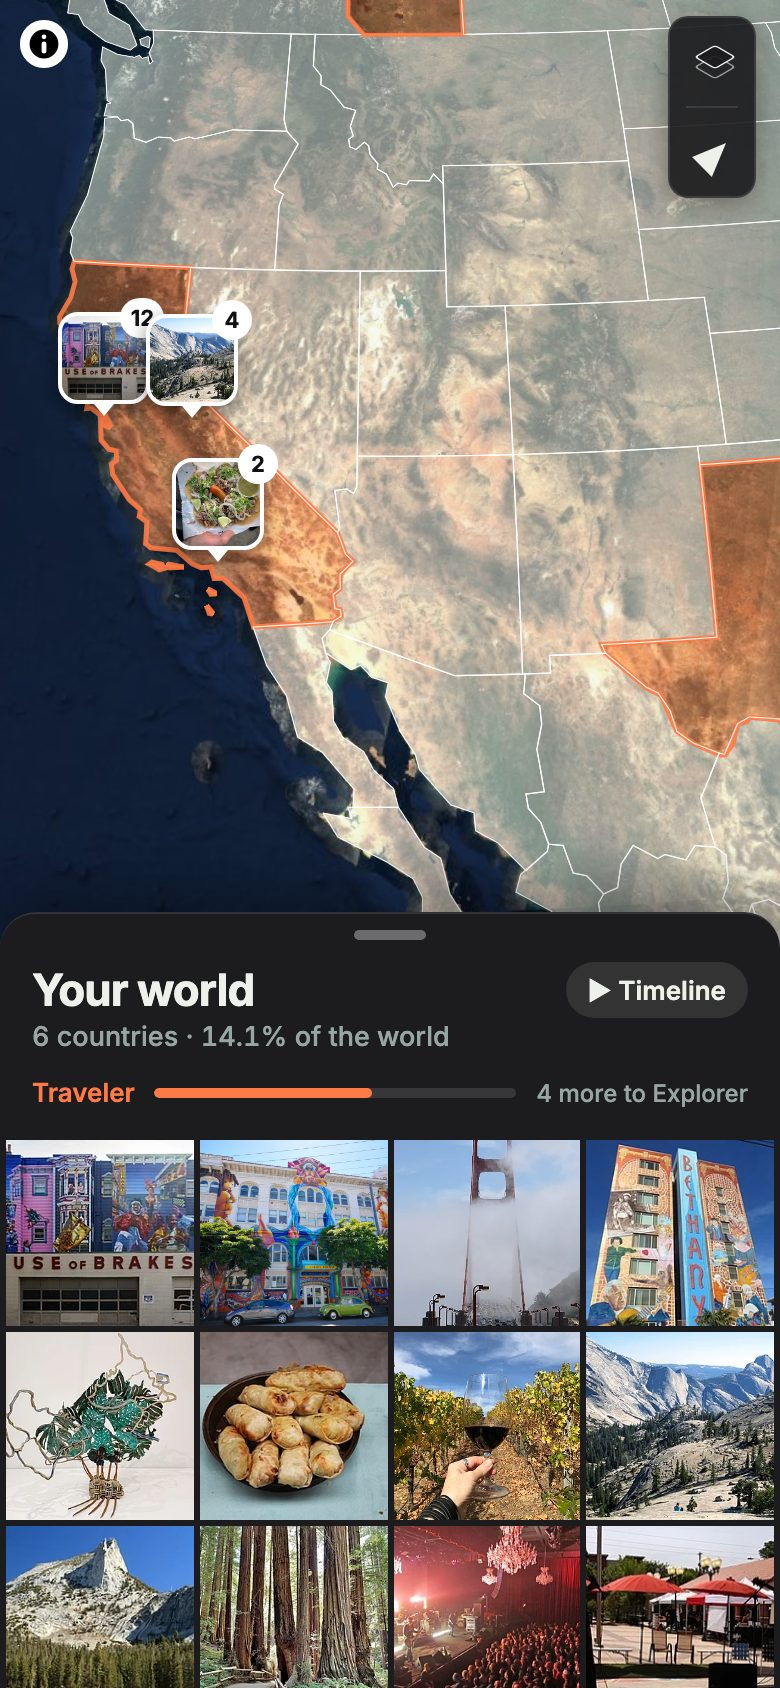
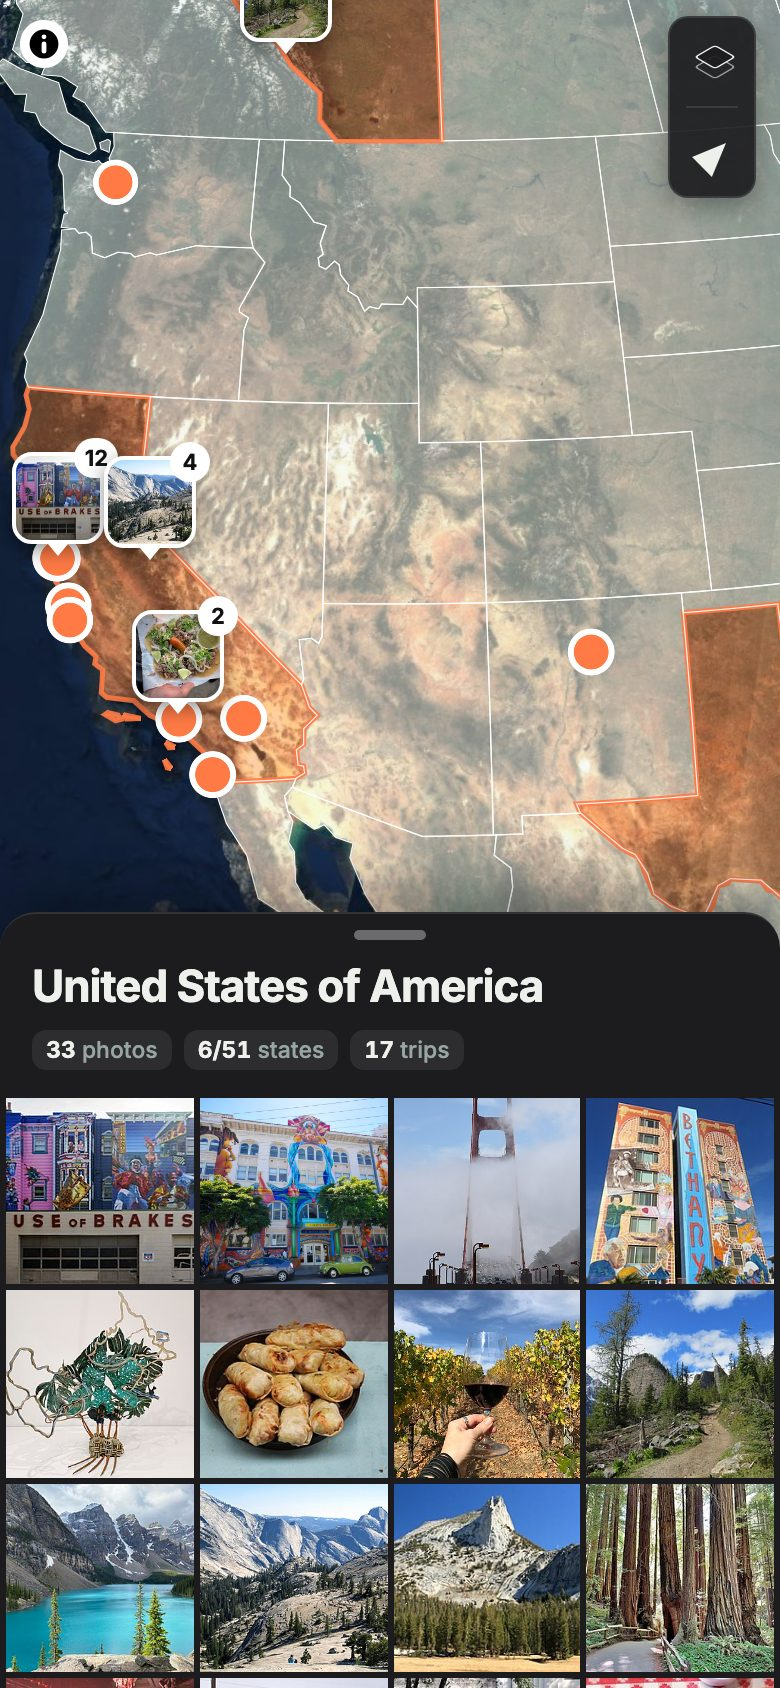
Read places again after the update; polish for the US release

diff --git a/mobile/e2e/web-demo.spec.ts b/mobile/e2e/web-demo.spec.ts
@@ -51,6 +51,25 @@ test('far out, the sheet shows your world', async ({ page }) => {
   expect(errors).toEqual([]);
 });
 
+test('a browser with 0.3.0 storage reads the places again', async ({ page }) => {
+  const errors = watchErrors(page);
+  // What 0.3.0 left behind: the Italian sample gallery under the v2 keys, and the choice to use it.
+  await page.addInitScript(() => {
+    if (localStorage.getItem('seeded')) return;
+    localStorage.setItem('seeded', '1');
+    const old = { id: 'old', uri: 'x', filename: 'old.jpg', takenAt: 1, lat: 41.9, lon: 12.5, level: 'province', country: 'ITA', region: '12', province: 'RM' };
+    localStorage.setItem('photos:v2', JSON.stringify([old]));
+    localStorage.setItem('visited:v2', JSON.stringify({ country: { ITA: ['photo'] }, region: {}, province: {} }));
+    localStorage.setItem('gallery:choice', 'sample');
+  });
+  await page.route('**/v1/chat/completions', (route) => route.abort());
+  await page.goto('./');
+  await expect(page.getByText('6 countries · 14.1% of the world')).toBeVisible({ timeout: 30_000 });
+  await expect(page.locator('[data-testid="photo-pin"]').first()).toBeVisible();
+  expect(await page.evaluate(() => [localStorage.getItem('photos:v2'), localStorage.getItem('visited:v2')])).toEqual([null, null]);
+  expect(errors).toEqual([]);
+});
+
 test('tapping a numbered pin shows its photos oldest first', async ({ page }) => {
   const errors = watchErrors(page);
   await startWithGallery(page);

diff --git a/mobile/scripts/test-locate.ts b/mobile/scripts/test-locate.ts
@@ -84,6 +84,11 @@ assert.deepEqual(levelWords('ITA'), { region: 'region', province: 'province' });
 assert.deepEqual(levelWords('FRA'), { region: 'region', province: 'province' });
 assert.ok(isDetailed('USA') && isDetailed('ITA') && !isDetailed('FRA'));
 assert.equal(nameOf('region', 'US-CA'), 'California');
+// The six independent cities share a name with their county: they keep the Census "city" name.
+assert.equal(nameOf('province', 'US-24510'), 'Baltimore city');
+assert.equal(nameOf('province', 'US-24005'), 'Baltimore');
+assert.equal(nameOf('province', 'US-29510'), 'St. Louis city');
+assert.equal(locate(29.9637, -90.0577).province, 'US-22071');
 assert.deepEqual(placeOfProvince('US-06075'), { country: 'USA', region: 'US-CA' });
 assert.ok(statSync('src/geo/us-states.json').size + statSync('src/geo/us-counties.json').size < 1.5 * 1024 * 1024);
 // Natural Earth's US states left world-regions.json: the Census states replace them.

diff --git a/mobile/src/state/visited.ts b/mobile/src/state/visited.ts
@@ -8,14 +8,15 @@ import { addMarks, removeSource, type Visited } from './marks';
 
 export { ids, type Visited } from './marks';
 
-// v2: regions of Spain, France, UK and Portugal changed ids (real regions, 18:20).
-const KEY = 'visited:v2';
+// v3: US states and counties from the Census; the San Francisco demo traveler.
+const KEY = 'visited:v3';
 const empty = (): Visited => ({ country: {}, region: {}, province: {} });
 
 export function useVisited() {
   const [visited, setVisited] = useState<Visited>(empty);
 
   useEffect(() => {
+    Storage.removeItem('visited:v2').catch(() => {}); // the 0.3.0 copy is never read again
     Storage.getItem(KEY)
       .then((saved) => saved && setVisited({ ...empty(), ...JSON.parse(saved) }))
       .catch((e) => console.warn('[visited] load failed', e));

diff --git a/mobile/src/gallery/photos.ts b/mobile/src/gallery/photos.ts
@@ -21,8 +21,8 @@ export type Photo = Place & {
   lon: number;
 };
 
-// v2: photos carry the real regions of Spain, France, UK and Portugal (18:20).
-const KEY = 'photos:v2';
+// v3: US states and counties from the Census; the San Francisco demo traveler.
+const KEY = 'photos:v3';
 
 // A gallery photo with its place, or null without a position.
 function toPhoto(raw: RawPhoto): Photo | null {
@@ -68,6 +68,7 @@ export async function loadSample(): Promise<Photo[]> {
 export const forgetPhotos = () => Storage.setItem(KEY, '[]');
 
 export async function loadPhotos(): Promise<Photo[]> {
+  Storage.removeItem('photos:v2').catch(() => {}); // the 0.3.0 copy is never read again
   const saved = await Storage.getItem(KEY);
   return saved ? JSON.parse(saved) : [];
 }

diff --git a/mobile/scripts/readme-media.ts b/mobile/scripts/readme-media.ts
@@ -57,7 +57,7 @@ async function main() {
     // 1. Far out: your world.
     await shot('1-world.jpg');
     // 2. The US by state, with the photos in view.
-    await page.evaluate(() => (window as unknown as { __mantideMap: MapHandle }).__mantideMap.jumpTo({ center: [-113, 29], zoom: 3.6 }));
+    await page.evaluate(() => (window as unknown as { __mantideMap: MapHandle }).__mantideMap.jumpTo({ center: [-112, 33], zoom: 3.6 }));
     await page.waitForTimeout(3000);
     await dragSheet(page, 844 - 388);
     await page.waitForTimeout(2000);

diff --git a/mobile/src/i18n/index.ts b/mobile/src/i18n/index.ts
@@ -52,7 +52,7 @@ export function setLocaleForTests(l: Locale, region?: string): void {
 
 // "10 mi" or "16 km", rounded.
 export function formatDistance(km: number): string {
-  return distanceUnit === 'mi' ? `${Math.round(km / KM_PER_MILE)} mi` : `${Math.round(km)} km`;
+  return distanceUnit === 'mi' ? `${formatCount(Math.round(km / KM_PER_MILE))} mi` : `${formatCount(Math.round(km))} km`;
 }
 
 export function t(key: StringKey, params?: Record<string, string | number>): string {

diff --git a/mobile/playwright.config.ts b/mobile/playwright.config.ts
@@ -7,7 +7,7 @@ const live = process.env.BASE_URL;
 export default defineConfig({
   testDir: 'e2e',
   timeout: 90_000,
-  use: { baseURL: live ?? 'http://127.0.0.1:4173/mantide/', browserName: 'chromium' },
+  use: { baseURL: live ?? 'http://127.0.0.1:4173/mantide/', browserName: 'chromium', locale: 'en-US' },
   webServer: live
     ? undefined
     : { command: 'npx tsx scripts/serve-web.ts', url: 'http://127.0.0.1:4173/mantide/', reuseExistingServer: false },

diff --git a/mobile/scripts/test-i18n.ts b/mobile/scripts/test-i18n.ts
@@ -29,6 +29,7 @@ setLocaleForTests('en', 'US');
 assert.equal(formatDate(d, 'day-month'), 'Nov 7');
 assert.equal(formatDate(d, 'medium'), 'Nov 7, 2026');
 assert.equal(formatDistance(16.09), '10 mi');
+assert.equal(formatDistance(8604), '5,346 mi');
 assert.equal(t('level.traveller'), 'Traveler');
 setLocaleForTests('en', 'GB');
 assert.equal(formatDate(d, 'day-month'), '7 Nov');

diff --git a/mobile/src/storage.web.ts b/mobile/src/storage.web.ts
@@ -28,6 +28,11 @@ const Storage = {
       return null;
     }
   },
+  async removeItem(key: string): Promise<void> {
+    try {
+      localStorage.removeItem(key);
+    } catch {}
+  },
   async setItem(key: string, value: string): Promise<void> {
     try {
       localStorage.setItem(key, value);

diff --git a/CHANGELOG.md b/CHANGELOG.md
@@ -2,14 +2,14 @@
 
 ## Unreleased
 
+- Places are read again once after the update: a browser or phone with 0.3.0 photos switches to the San Francisco traveler and the US states, instead of keeping the old Italian ones.
 - Home and the first map view are in San Francisco and North America: the demo traveler starts in the Mission District, and the web and Android tests follow.
 - The 46 sample events are now around the US: San Francisco, California, other states, and cities like Mexico City, Tokyo, Vancouver, Paris, London and Rome (all invented, with US dollars and local currencies).
-- US counties from the Census 1:5m boundaries at about 100 m precision: Manhattan, Brooklyn and independent cities like St. Louis no longer land in a neighboring county.
 - The sample photos are a new demo traveler who lives in San Francisco: 45 photos from the Mission, California, five other states, Mexico City, Banff, Tokyo, Rome and London, with Gemma's answers run again on them.
 - Miles and US date formats when the device region is the US (miles in the UK too, kilometers elsewhere), and American spelling in English ("Traveler").
-- Counts have thousands separators ("14/3,144"), the Italian "all seen" line fits states and counties, Washington D.C. and Mexico City have their own names, and the Seattle hike sample event says what it is.
-- The USA at the same depth as Italy: zooming in lights up states, then counties (US Census Bureau boundaries), and the place sheet and the passport count states and counties there.
-- The README, its screenshots and the GIF show the US: the globe on North America, California and Texas lit, San Francisco with distances in miles, and the passport with states and counties.
+- Counts and distances have thousands separators ("14/3,144", "5,346 mi"), the Italian "all seen" line fits states and counties, Washington D.C. and Mexico City have their own names, the six independent cities (Baltimore city, St. Louis city...) are told apart from their counties, and the Seattle hike and New Orleans jazz sample events say what and where they are.
+- The USA at the same depth as Italy: zooming in lights up states, then counties (US Census Bureau 1:5m boundaries at about 100 m precision, so Manhattan, Brooklyn and independent cities like St. Louis no longer land in a neighboring county), and the place sheet and the passport count states and counties there.
+- The README, its screenshots and the GIF show the US: the globe on North America, the United States by state with California and Texas lit, San Francisco with distances in miles, and the passport with states and counties.
 - Plan for the America stage: [design](docs/superpowers/specs/2026-11-11-america-design.md) and [plan](docs/superpowers/plans/2026-11-11-stage-2b-america.md).
 
 ## 0.3.0 · Stage 2a: the Photos map

diff --git a/README.md b/README.md
@@ -13,12 +13,12 @@
 
 <p>
   <img src="docs/images/1-world.jpg" width="200" alt="Far out: the globe on North America, the countries you've visited lit up, and your world in the sheet">
-  <img src="docs/images/2-country.jpg" width="200" alt="The western US: California and Texas lit up, with the photos in view in the sheet">
+  <img src="docs/images/2-country.jpg" width="200" alt="The western US: California and Texas lit up, and the sheet naming the United States with 6/51 states and its photos">
   <img src="docs/images/3-place.jpg" width="200" alt="San Francisco's place sheet: events for you first, with distances in miles, each with the reason and one of your photos">
   <img src="docs/images/4-passport.jpg" width="200" alt="The passport: level, share of the world, states and counties and what you photograph">
 </p>
 
-Mantide is an open-source Android app for travelers. It reads the date and GPS of every photo in your gallery and lights up the countries you've been to, then the states and counties in the US (regions and provinces elsewhere). **Gemma 4**, Google's open model, looks at what you photograph to learn what you love, and suggests events near you with the reason ("You have 14 photos of architecture"). Gemma runs on hardware you own: your photos never leave it.
+Mantide is an open-source Android app for travelers. It reads the date and GPS of every photo in your gallery and lights up the countries you've been to, then the states and counties in the US (regions and provinces elsewhere). **Gemma 4**, Google's open model, looks at what you photograph to learn what you love, and suggests events near you with the reason ("You have 17 photos of architecture"). Gemma runs on hardware you own: your photos never leave it.
 
 **Try it:** [web demo](https://mattiaroncato2004-bit.github.io/mantide/), a fictional San Francisco traveler's gallery in your browser. The Android APK comes with the next release.
 

diff --git a/mobile/src/geo/README.md b/mobile/src/geo/README.md
@@ -27,6 +27,10 @@ npx mapshaper cb_2024_us_state_20m.shp -filter '+STATEFP <= 56' -join ne_10m_adm
 npx mapshaper cb_2024_us_county_5m.shp -filter '+STATEFP <= 56' -simplify dp variable interval='ALAND < 5e8 ? 100 : Math.sqrt(ALAND) * 0.035' keep-shapes -each "id='US-'+GEOID, name=NAME, region='US-'+STUSPS" -filter-fields id,name,region -o precision=0.001 format=geojson us-counties.json
 ```
 
+Two names were fixed by hand after the build, so a rebuild must redo them:
+- `US-DC` `name_it` "Washington D.C." in `us-states.json` and `MEX-2727` "Mexico City" in `region-names-en.json`;
+- the six independent cities that share a name with their county (St. Louis, Baltimore, Richmond, Fairfax, Franklin, Roanoke) carry the Census name in `us-counties.json` (`US-29510` "St. Louis city"), the only change to a `name`.
+
 The counties keep coordinates to 0.001° (about 100 m), and no vertex moves more than its tolerance:
 - 100 m for counties with less than 500 km² of land: New York's boroughs, St. Louis, Baltimore, most of Virginia's independent cities;
 - 3.5% of the square root of the land area above that: about 1.5 km for a typical 2,000 km² county.
